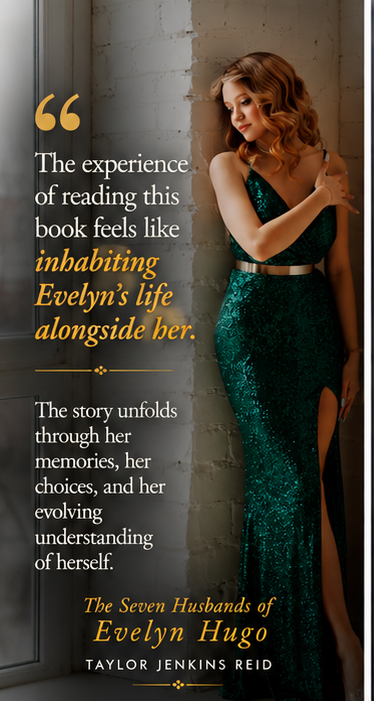
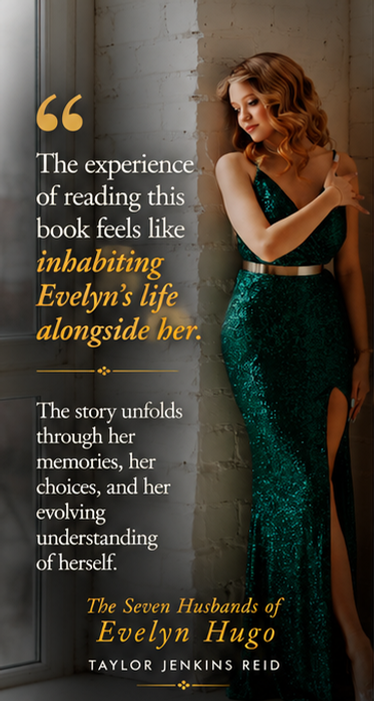
Clean Evelyn Hugo gallery graphics

diff --git a/app/reviews/[slug]/page.tsx b/app/reviews/[slug]/page.tsx
@@ -127,7 +127,7 @@ export default async function ReviewPostPage({ params }: Props) {
                       alt={image.alt}
                       fill
                       sizes="(max-width: 640px) 100vw, 33vw"
-                      className="object-cover object-center"
+                      className="object-cover object-left"
                     />
                   </div>
                 ))}
